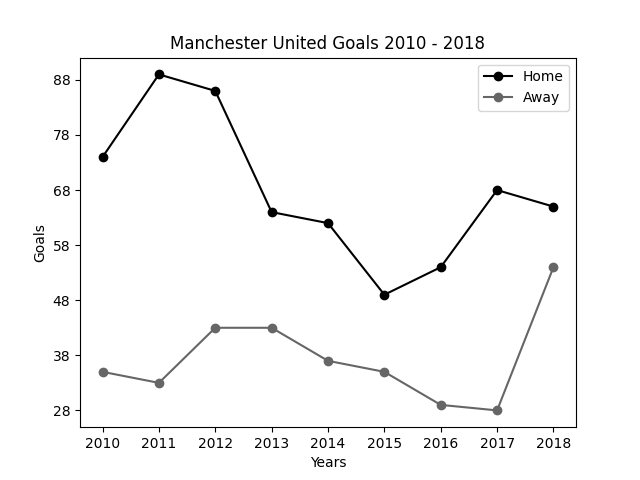
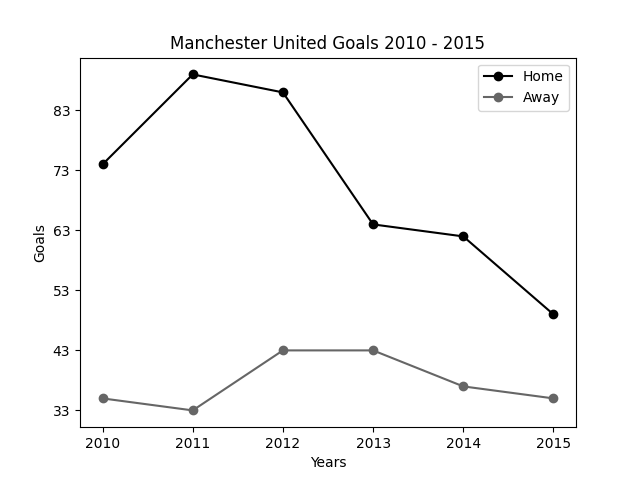
Progress Bar

diff --git a/main.py b/main.py
@@ -6,6 +6,7 @@ import matplotlib.pyplot as plt
 import matplotlib.ticker as ticker
 from PIL import Image, ImageDraw, ImageOps
 from bs4 import BeautifulSoup
+import time
 
 
 
@@ -31,8 +32,8 @@ test = "https://api-football-v1.p.rapidapi.com/v3/teams/"
 
 query_fixtures = {"league": "39", "season": fixture_year}
 query_team_stats = {"league": "39", "season": fixture_year, "team": team_id}
-query_coaches = {"team": f"{team_id}"}
-query_players = {"league": "39", "season": fixture_year, "team": f"{team_id}"}
+query_coaches = {"team": team_id}
+query_players = {"league": "39", "season": fixture_year, "team": team_id}
 
 
 headers = {
@@ -106,7 +107,9 @@ def add_rounded_corners(image, radius):
 	return rounded_image
 
 season = 2010
+progress_bar = st.progress(0)
 for i in range(14):
+	progress_bar.progress((i * 7) + 1)
 	query_standings = {"season": str(season), "team": str(team_id)}
 	response_standings = requests.get(url_standings, headers=headers, params=query_standings)
 	response_standings = response_standings.json()
@@ -121,7 +124,7 @@ for i in range(14):
 			standings = standings.get('standings', [])
 			standings_dict[season] = standings[0][0].get('rank', 'Unknown')
 			season += 1
-		break
+			break
 
 logo = response_team_stats['response']['team']['logo']
 team_name = response_team_stats['response']['team']['name']
@@ -161,7 +164,7 @@ url_wikipedia = f"https://en.wikipedia.org/wiki/{venue_name}"
 
 
 for team in response_fix['response']:
-	if 'Newcastle' in team['teams']['away']['name'] or 'Newcastle' in team['teams']['home']['name']:
+	if team_name in team['teams']['away']['name'] or 'Newcastle' in team['teams']['home']['name']:
 		teams = team['teams']
 		date = team['fixture']['date']
 		venue = team['fixture']['venue']
@@ -654,8 +657,9 @@ with tab2:
 		goals_for_hme = {}
 		goals_for_awa = {}
 		fixture_year_counter = 2010
-		for i in range(14):
-
+		progress_bar = st.progress(0)
+		for i in range(10):
+			progress_bar.progress((i * 7) + 1)
 			query_team_stats_goals = {"league": "39", "season": fixture_year_counter, "team": {team_id}}
 			response_team_stats_goals = requests.get(url_team_stats, headers=headers, params=query_team_stats_goals)
 			response_team_stats_goals = response_team_stats_goals.json()
